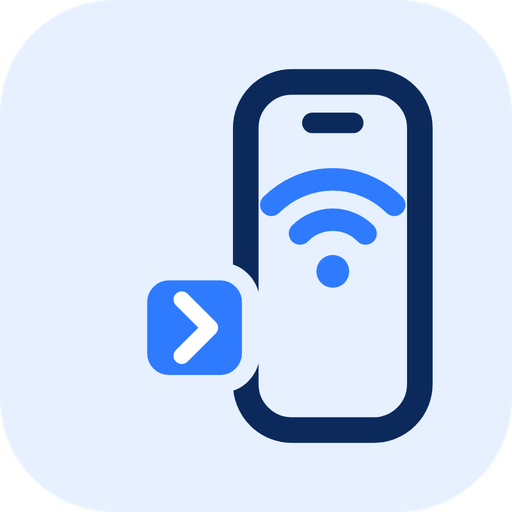
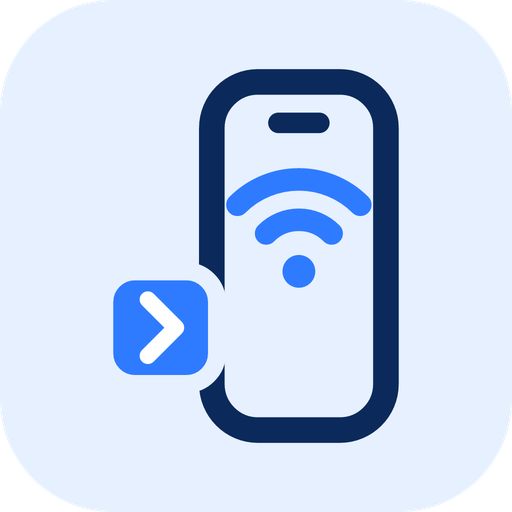
Centre the EZSide mark in its tile
The app tile and iPhone group sat 68 px right of centre at 1024 px (margins 294/158). Both mark sources now wrap the drawing in translate(-6.625 0), so the margins are 226/226, and every icon, tray, installer and in-app image is regenerated from them with make-icon.py and make-art.py. The sources are re-rendered with resvg-py.

Changed region(s): [[0.2188, 0.125, 0.8438, 0.875]]

diff --git a/CHANGELOG.md b/CHANGELOG.md
@@ -4,6 +4,14 @@ All notable changes to iPASide are documented here. This project adheres to
 [Semantic Versioning](https://semver.org/) and
 [Keep a Changelog](https://keepachangelog.com/).
 
+## [1.3.1] - 2026-10-28
+
+### Fixed
+
+- **The EZSide icon is centred.** The app tile and iPhone sat about 7% right of centre; the mark
+  is shifted so both margins match, and every icon, tray, installer and in-app image is rebuilt
+  from it (sources re-rendered with resvg).
+
 ## [1.3.0] - 2026-10-28
 
 ### Added
